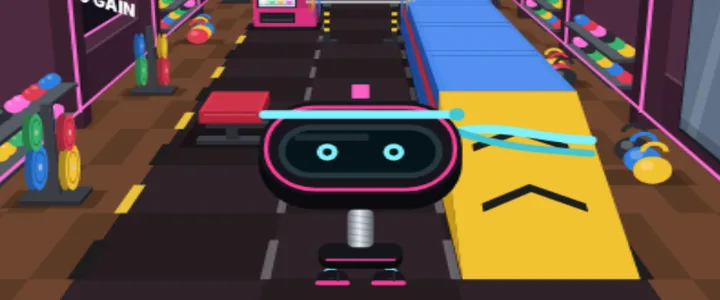
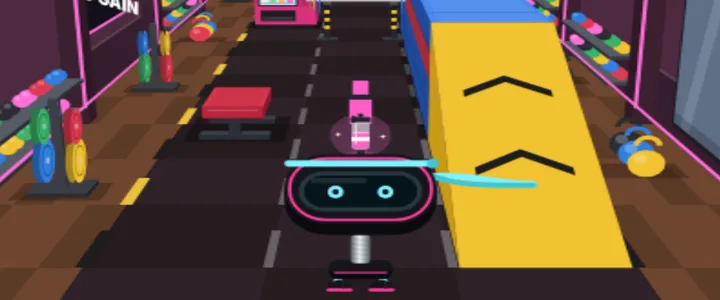
Correle pa: la protagonista, más chica en general
Toda la mancuerna (cabeza, cuerpo y patas) baja de escala un 25 %: ahora mide ~1.2 m de alto y
~1 m de ancho, en proporción con los carriles, las bancas y las máquinas (entrenador,
2026-11-27: "se ve muy grande en general"). La portada del Arcade, con el nuevo tamaño.

Claude-Session: https://claude.ai/code/session_01XsEJr1bCJTCK2RV4EFgdxK

diff --git a/web/src/ui/pesaRunMancuerna.ts b/web/src/ui/pesaRunMancuerna.ts
@@ -28,7 +28,7 @@ export interface AnimMancuerna {
 }
 
 /** Metros que mide de alto la unidad del dibujo (la cabeza llega a ~1.36). */
-const TAM = 1.2;
+const TAM = 0.9;
 const CIAN = "#7ef3ff", CIAN2 = "#3fc6d8", ROSA = "#ff3d9a", NEGRO = "#16151c", NEGRO2 = "#0b0a10";
 const TAU = Math.PI * 2;
 
